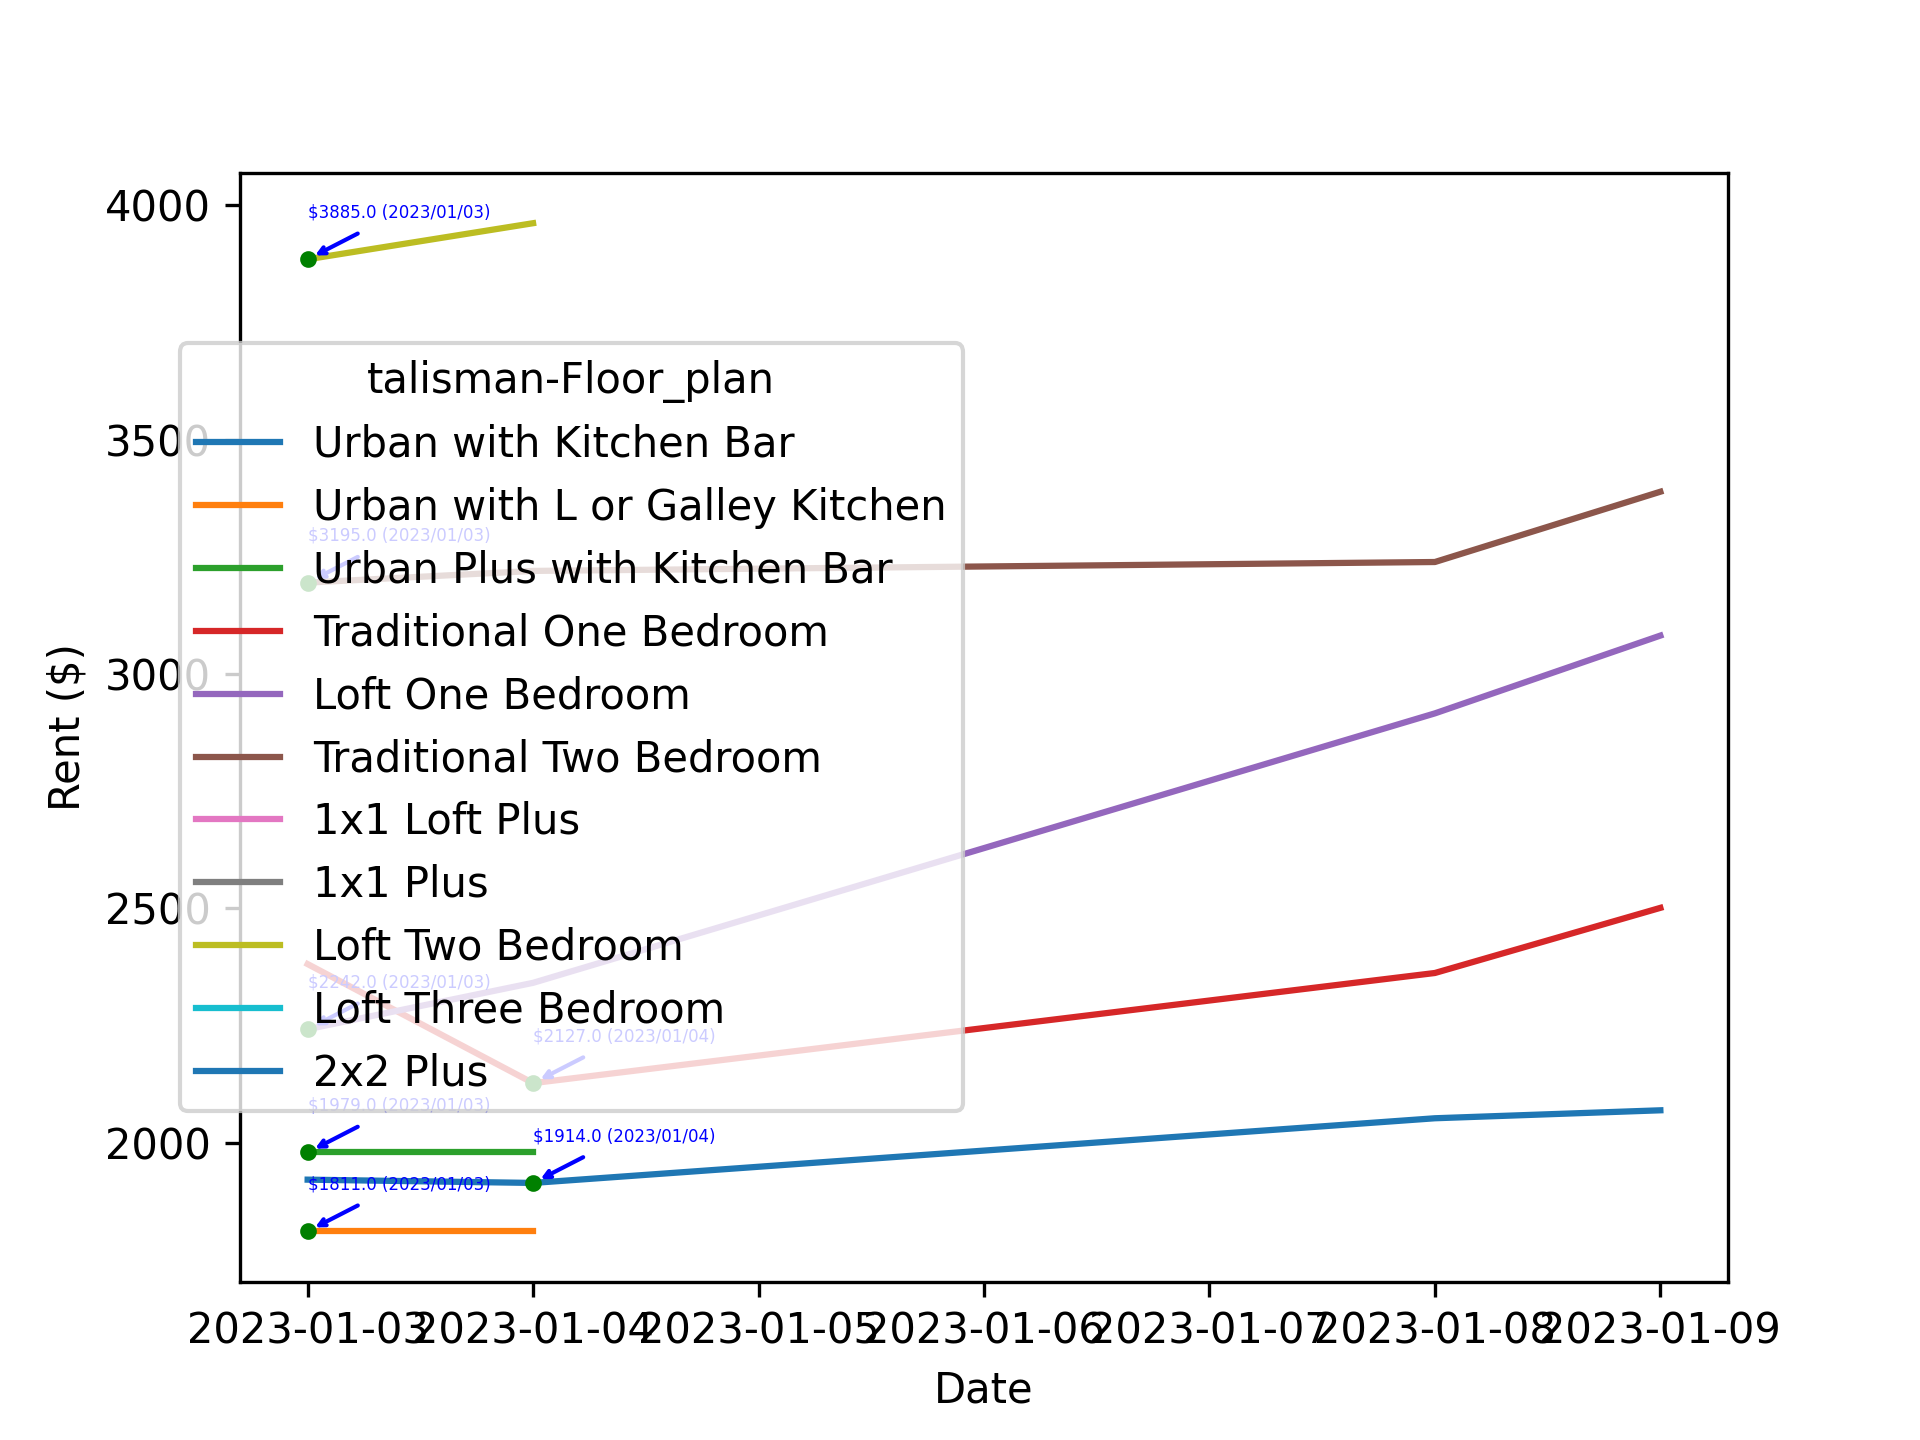
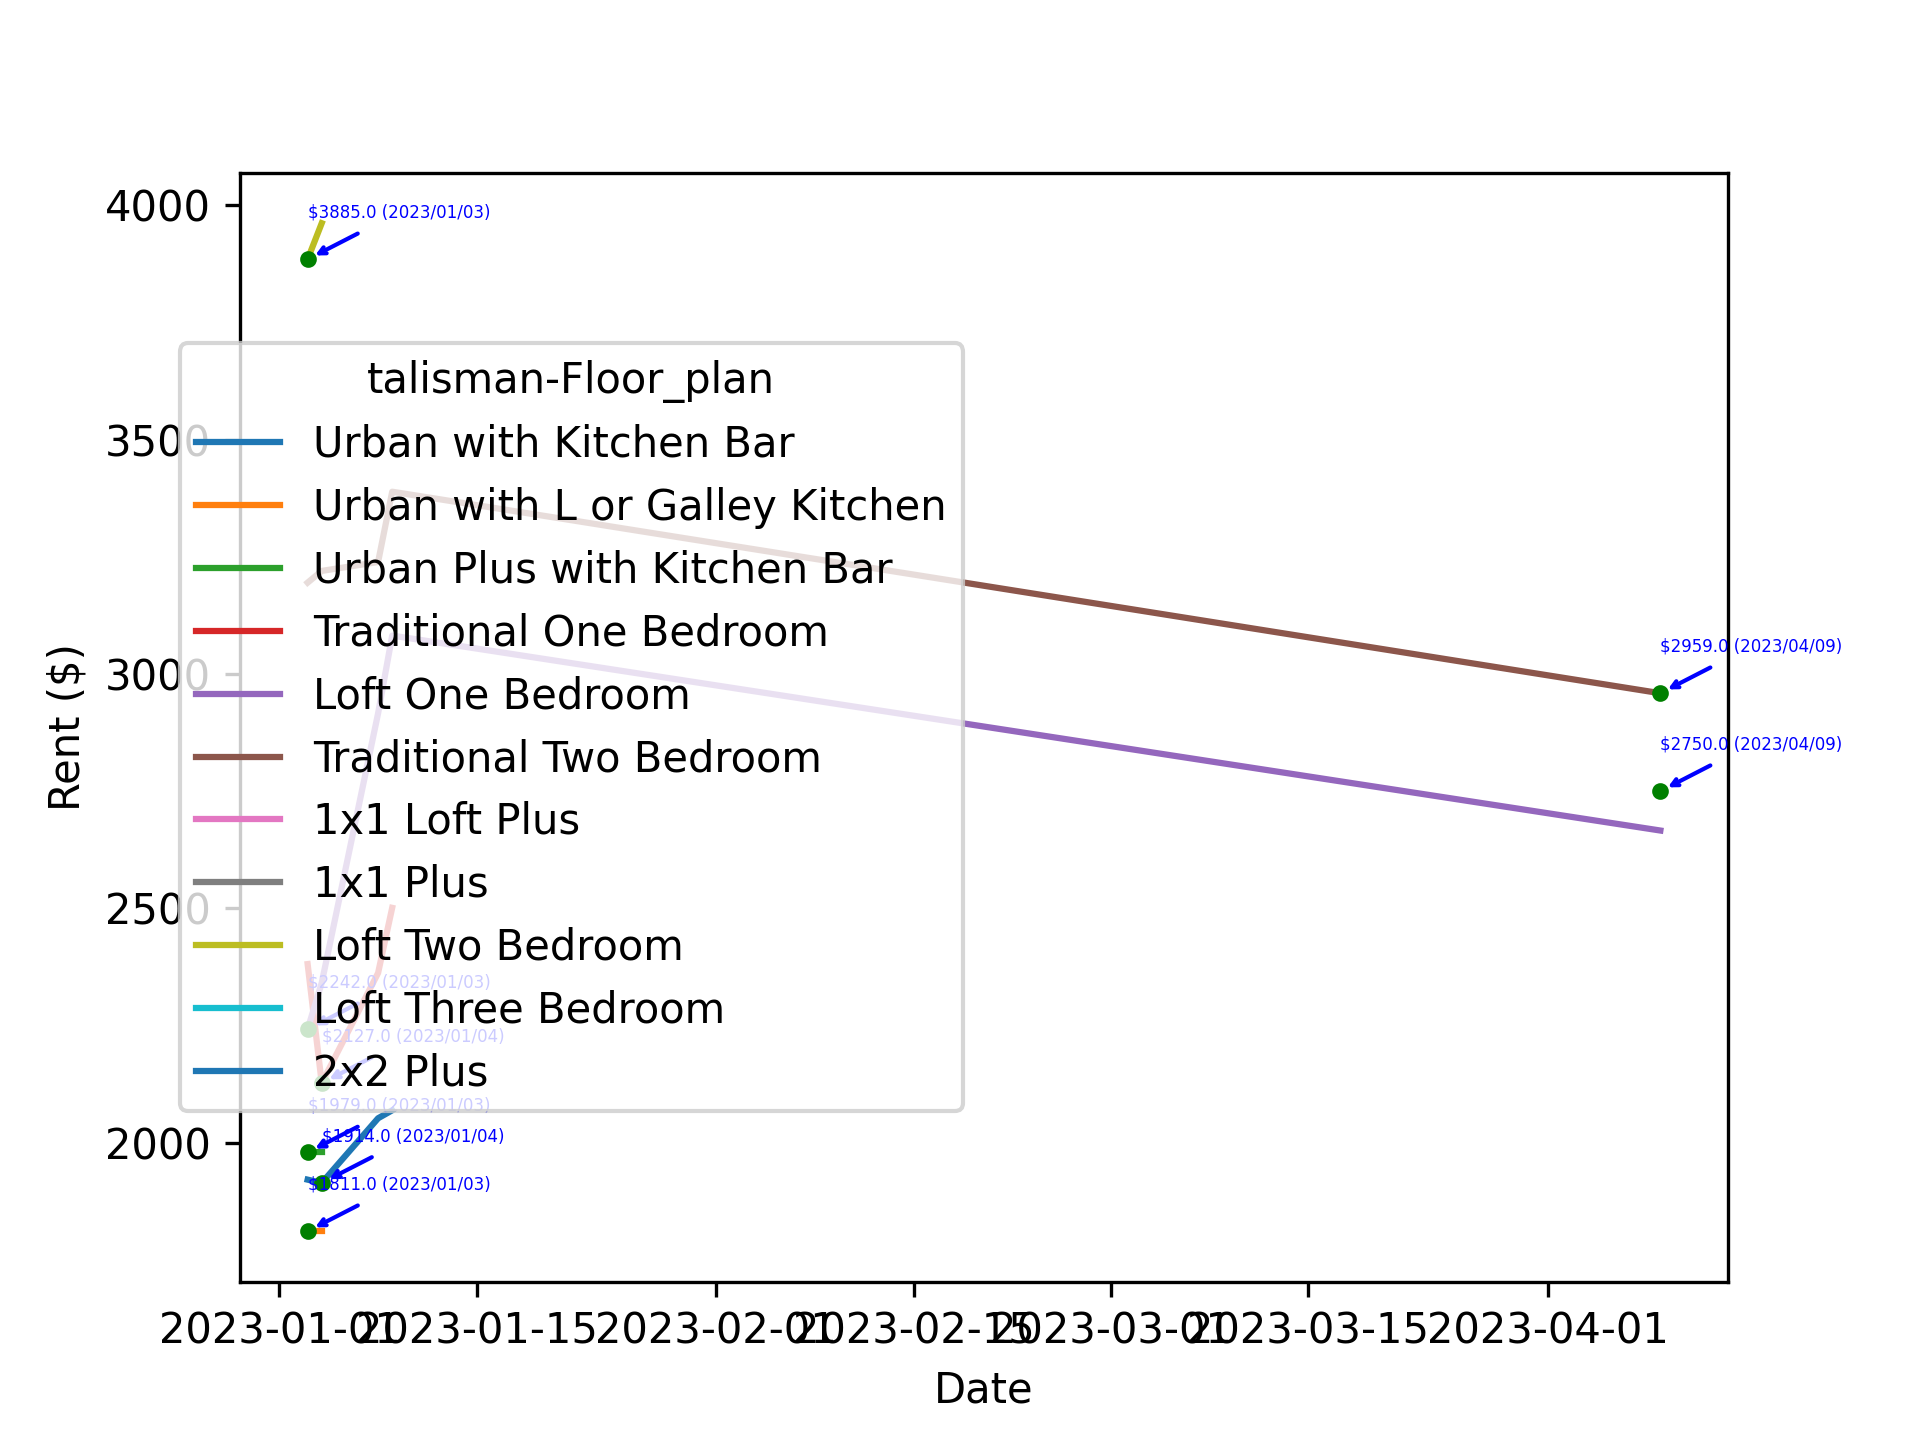
.

diff --git a/_posts/00CodeNote/project/webscrap_apt/img_play.py b/_posts/00CodeNote/project/webscrap_apt/img_play.py
@@ -70,12 +70,19 @@ def draw_png(csv_files, apt, floor_plans):
         data = filtered_data[filtered_data["Floor_plan"] == floor_plan]
         data = data.copy()
         # modify the format and sort
+
+        # Replace empty strings with NaN values
+        data["Rent"] = data["Rent"].replace("", np.nan)
         data["Rent"] = (
-            data["Rent"].astype(str).str.replace(",", "").str.extract(r"\$(.*)/month")
+            data["Rent"]
+            .astype(str)
+            .str.replace(",", "")
+            .str.extract(r"\$([0-9,]+)(?:/month)?")[0]
         )
+
         # sort the data by date
         data = data.sort_values(by="Date")
-        logging.info(data)
+        # logging.info(data)
 
         ax.plot(data["Date"], data["Rent"].astype(float), label=floor_plan)
 

diff --git a/_posts/00CodeNote/project/webscrap_apt/play.py b/_posts/00CodeNote/project/webscrap_apt/play.py
@@ -276,13 +276,7 @@ def create_dic(apt, lines, output_list):
 
                 dic["Rent"] = info_list[2].replace(" ", "")
                 if dic["Rent"] != "ContactUs":
-                    dic["Rent"] = (
-                        dic["Rent"].split("-")[0].replace("$", "").replace(",", "")
-                    )
-                    LOGGER.info("!!!!!!!!!")
-                    if dic["Rent"].isdigit():
-                        dic["Rent"] = int(dic["Rent"])
-                        LOGGER.info(dic["Rent"])
+                    dic["Rent"] = dic["Rent"].split("-")[0]
 
                 dic["Deposit"] = "$300"
                 dic["Sq.Ft"] = info_list[1].split("Bath ")[1]

diff --git a/_posts/00CodeNote/project/webscrap_apt/README.md b/_posts/00CodeNote/project/webscrap_apt/README.md
@@ -11,6 +11,7 @@
 
 ---
 
+
 ## output
 
 ![APT-modera.png](/ocholuo.github.io/_posts/00CodeNote/project/webscrap_apt/APT-modera.png)
